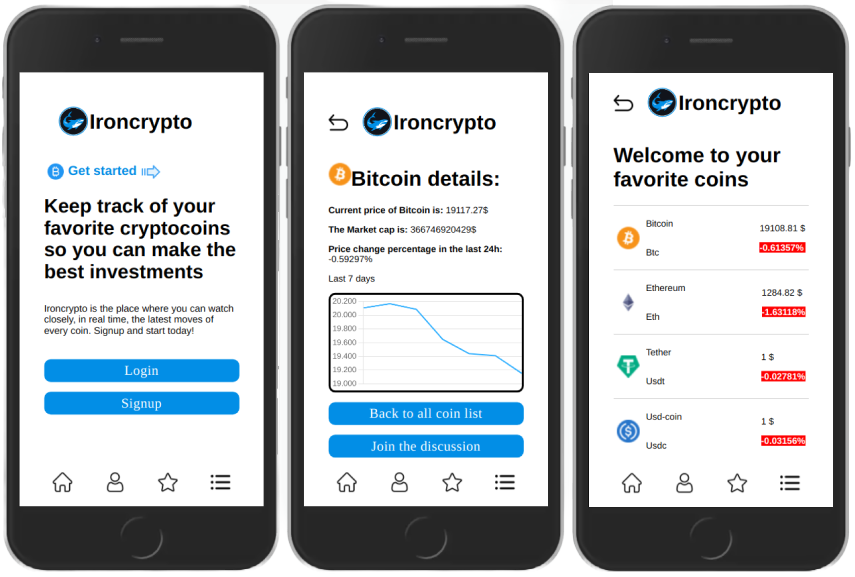
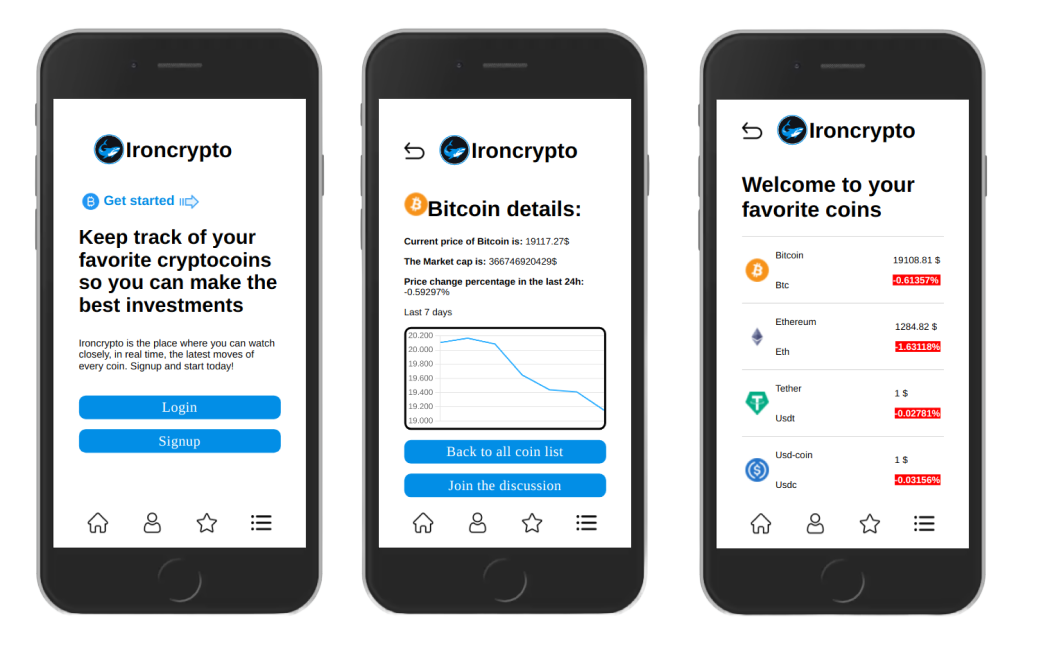
img project bug fix

diff --git a/components/projects/IronCrypto.tsx b/components/projects/IronCrypto.tsx
@@ -1,12 +1,14 @@
 import React from 'react'
 import { motion } from 'framer-motion'
+import Image from 'next/image'
+import ironCryptoLogo from "../../public/projectsImages/ironCrypto.png"
 
 type Props = {}
 
 export default function IronCrypto({}: Props) {
   return (
     <div className='w-screen flex-shrink-0 snap-center flex flex-col space-y-5 items-center justify-center p-2 mt-2 md:p-44 h-screen'>
-    <motion.img
+    <motion.div
         initial={{
             y:-300
         }}
@@ -20,17 +22,18 @@ export default function IronCrypto({}: Props) {
         viewport={{
             once:true
         }}
-        src='https://github.com/elugon/IronCrypto/raw/master/public/img/IronCryptoLayout1.png'
-        alt=''
-        className='max-h-22 sm:max-h-38 md:max-h-80 rounded'
-    />
+        className='h-auto w-auto mx-1 lg:h-[750px] lg:w-[600px] rounded'
+    >
+        <Image src={ironCryptoLogo} 
+            alt="iron crypto Logo"/>
+    </motion.div>
     <div className='space-y-10 px-0 md:px-10 max-w-6xl'>
         <h4 className='text-sm sm:text-xl md:text-4xl font-semibold text-center'>
             <span className='underline decoration-[#F7AB0A]/50'>
             IronCrypto
             </span>
         </h4>
-        <p className='text-xs sm:text-md md:text-lg text-center md:text-left'>
+        <p className='text-xs mx-2 sm:text-md md:text-lg text-center md:text-left'>
         A web application (Mobile First) developed during the bootcamp at IronHack, designed to visualize the data of the main cryptocurrencies in the market, it has been made with MongoDB and Handlebars.        </p>
         <p className='space-x-2 text-xs sm:text-md md:text-lg text-center underline decoration-[#F7AB0A]/50'>
         <a href="https://github.com/elugon/IronCrypto" target="_blank" rel="noopener noreferrer">

diff --git a/components/projects/UltimateTodo.tsx b/components/projects/UltimateTodo.tsx
@@ -1,12 +1,14 @@
 import React from 'react'
 import { motion } from 'framer-motion'
+import Image from 'next/image'
+import todoLogo from "../../public/projectsImages/toDo.png"
 
 type Props = {}
 
 export default function UltimateTodo({}: Props) {
   return (
     <div className='w-screen flex-shrink-0 snap-center flex flex-col space-y-5 items-center justify-center p-2 mt-2 md:p-44 h-screen'>
-    <motion.img
+    <motion.div
         initial={{
             y:-300
         }}
@@ -20,17 +22,18 @@ export default function UltimateTodo({}: Props) {
         viewport={{
             once:true
         }}
-        src='https://github.com/elugon/ultimate-todo-app/raw/master/public/wireframe.png'
-        alt=''
-        className='max-h-22 sm:max-h-38 md:max-h-80 rounded'
-    />
+        className='h-auto w-auto mx-1 lg:h-[750px] lg:w-[600px] rounded'
+    >
+        <Image src={todoLogo} 
+            alt="todo Logo"/>
+    </motion.div>
     <div className='space-y-10 px-0 md:px-10 max-w-6xl'>
         <h4 className='text-sm sm:text-xl md:text-4xl font-semibold text-center'>
             <span className='underline decoration-[#F7AB0A]/50'>
             Ultimate To-Do
             </span>
         </h4>
-        <p className='text-xs sm:text-md md:text-lg text-center md:text-left'>
+        <p className='text-xs mx-2 sm:text-md md:text-lg text-center md:text-left'>
         A desktop web application that allows you to make a to-do list, has developed multiple functions such as adding, modifying, deleting, and completing tasks.
         </p>    
         <p className='space-x-2 text-xs sm:text-md md:text-lg text-center underline decoration-[#F7AB0A]/50'>

diff --git a/components/projects/ShoesHouse.tsx b/components/projects/ShoesHouse.tsx
@@ -22,7 +22,7 @@ export default function ShoesHouse({}: Props) {
         viewport={{
             once:true
         }}
-        className='h-auto w-auto lg:h-[750px] lg:w-[600px] rounded'
+        className='h-auto w-auto mx-1 lg:h-[750px] lg:w-[600px] rounded'
     >
         <Image src={shoesHouseLogo} 
             alt="shoes house Logo"/>
@@ -33,8 +33,8 @@ export default function ShoesHouse({}: Props) {
             Shoes House
             </span>
         </h4>
-        <p className='text-xs sm:text-md md:text-lg text-center md:text-left'>
-        An e-Commerce (Mobile First) developed during the Bootcamp at IronHack, has been made with MongoDB - Express - Mongoose - NodeJS for the Backend and with React for the Frontend.
+        <p className='text-xs mx-2 sm:text-md md:text-lg text-center md:text-left'>
+        An e-Commerce (Mobile First) developed during the Bootcamp at IronHack, has been made with MongoDB/NodeJS for the Backend and with Reactjs for the Frontend.
         </p>
         <p className='space-x-2 text-xs sm:text-md md:text-lg text-center underline decoration-[#F7AB0A]/50'>
         <a href="https://github.com/elugon/ShoesHouse-Frontend" target="_blank" rel="noopener noreferrer">
